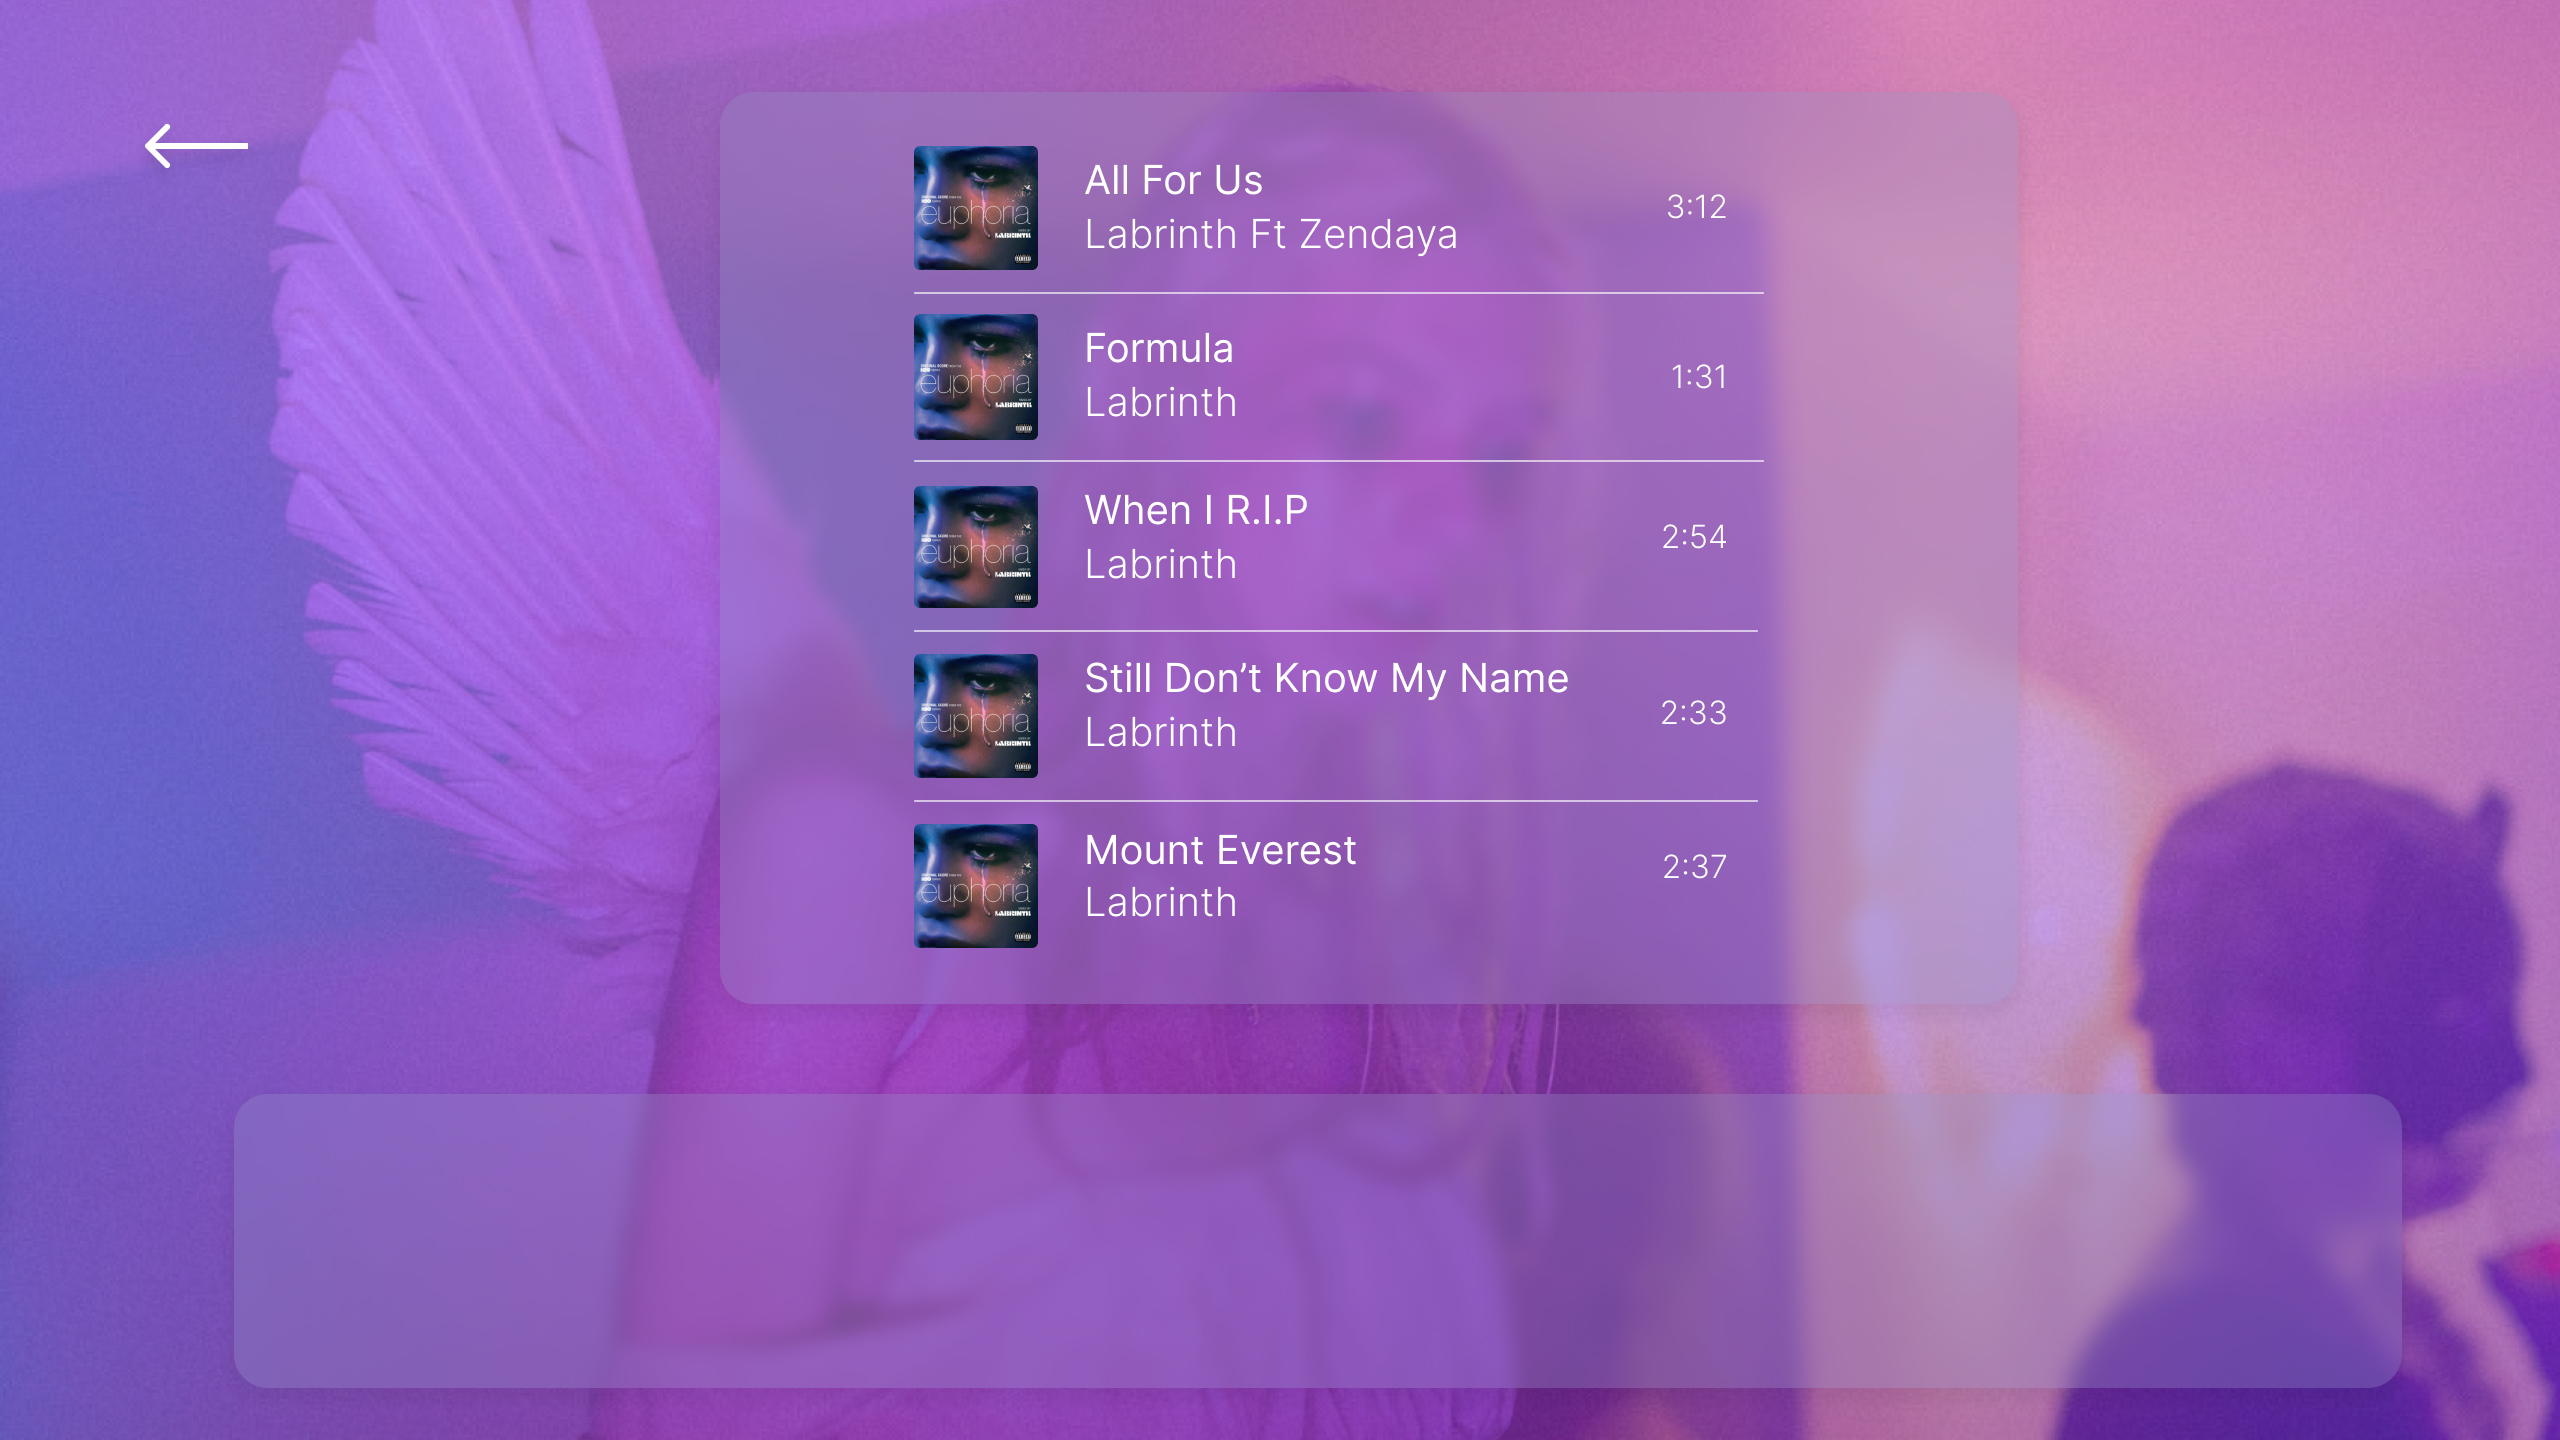
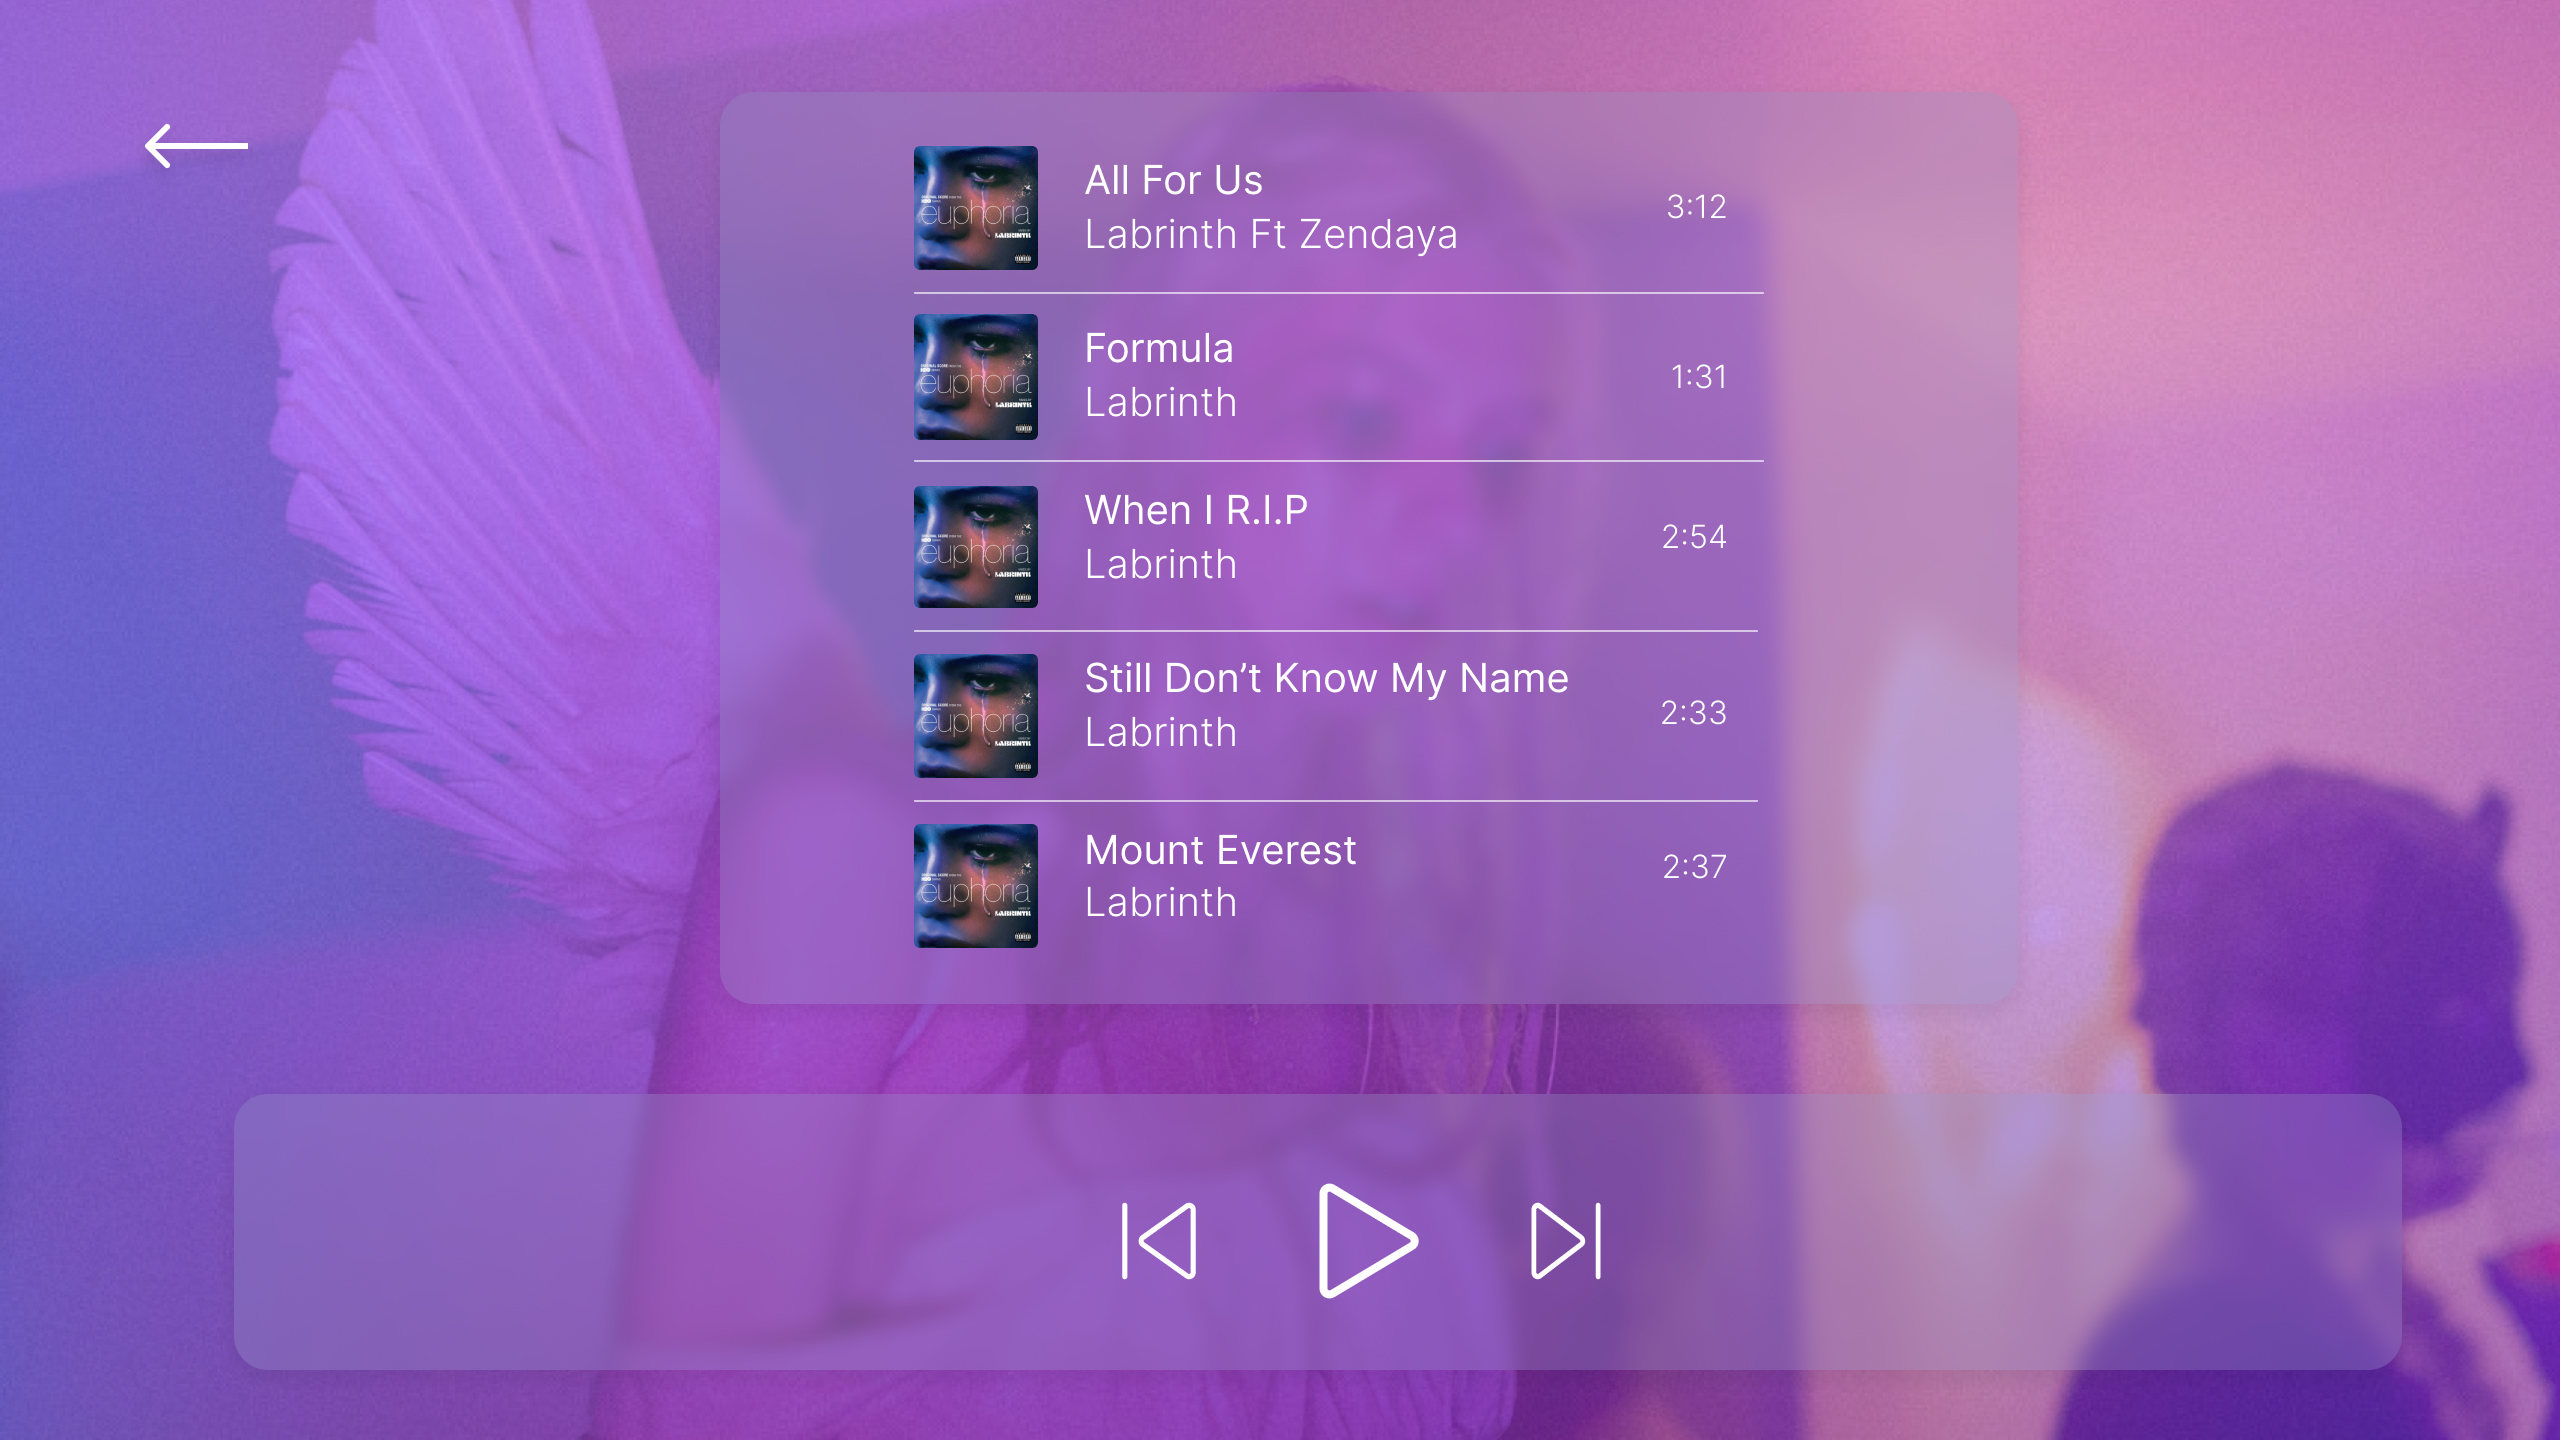
imagenes al reproducir

diff --git a/sketch.js b/sketch.js
@@ -74,7 +74,7 @@ function setup() {
   interface = 0;
   createCanvas(1280, 720);
   slider = createSlider(0, 1, 0.5, 0.01);
-  //song = loadSound("music/Im_tired.mp3", loaded)
+  //songInfo = loadSound("music/Im_tired.mp3", loaded)
   playlists = loadImage("images/playlist.jpg");
   playlistSeason1 = loadImage("images/playlist_1.jpg");
   playlistSeason2 = loadImage("images/playlist_2.jpg");
@@ -105,7 +105,7 @@ function setup() {
 
 function draw() {
   background(0);
-  //song.setVolume(slider.value());
+  //songFiles.setVolume(slider.value());
   //pantallaUno();
   switch (interface) {
     case 0:
@@ -116,12 +116,15 @@ function draw() {
       break; //escoger playlist
     case 2:
       image(playlistSeason1, 0, 0, 1280, 720)
-      break; //playlist season 1
+      if (song && songI !== undefined) image(songFiles[songI].imgInfo, 108, 546);
+      break; //playlist season 1,
     case 3:
       image(playlistSeason2, 0, 0, 1280, 720)
+      if (song && songI !== undefined) image(songFiles[songI].imgInfo, 108, 546);
       break; //playlist season 2
     case 4:
       image(playlistFansFavorite, 0, 0, 1280, 720)
+      if (song && songI !== undefined) image(songFiles[songI].imgInfo, 108, 546);
       break; //playlist fans
   }
   text("x:" + mouseX + " y: " + mouseY, mouseX, mouseY);
@@ -178,7 +181,7 @@ function mousePressed() {
         song.play();
       }
     }
-    if (dist(mouseX, mouseY, 575,191) < 10) {
+    if (dist(mouseX, mouseY, 575, 191) < 10) {
       console.log("si");
       if (song) song.stop();
       if (interface === 2) {
@@ -188,7 +191,7 @@ function mousePressed() {
       }
     }
     //When i r.p.i canción
-    if (dist(mouseX, mouseY, 483,276) < 10) {
+    if (dist(mouseX, mouseY, 483, 276) < 10) {
       console.log("si");
       if (song) song.stop();
       if (interface === 2) {
@@ -197,7 +200,7 @@ function mousePressed() {
         song.play();
       }
     }
-    if (dist(mouseX, mouseY, 579,274) < 10) {
+    if (dist(mouseX, mouseY, 579, 274) < 10) {
       console.log("si");
       if (song) song.stop();
       if (interface === 2) {
@@ -207,7 +210,7 @@ function mousePressed() {
       }
     }
     //still dont know my name canción
-    if (dist(mouseX, mouseY, 484,359) < 10) {
+    if (dist(mouseX, mouseY, 484, 359) < 10) {
       console.log("si");
       if (song) song.stop();
       if (interface === 2) {
@@ -216,7 +219,7 @@ function mousePressed() {
         song.play();
       }
     }
-    if (dist(mouseX, mouseY, 585,356) < 10) {
+    if (dist(mouseX, mouseY, 585, 356) < 10) {
       console.log("si");
       if (song) song.stop();
       if (interface === 2) {
@@ -226,7 +229,7 @@ function mousePressed() {
       }
     }
     //mount everest canción
-    if (dist(mouseX, mouseY, 484,443) < 10) {
+    if (dist(mouseX, mouseY, 484, 443) < 10) {
       console.log("si");
       if (song) song.stop();
       if (interface === 2) {
@@ -235,7 +238,7 @@ function mousePressed() {
         song.play();
       }
     }
-    if (dist(mouseX, mouseY, 579,441) < 10) {
+    if (dist(mouseX, mouseY, 579, 441) < 10) {
       console.log("si");
       if (song) song.stop();
       if (interface === 2) {
@@ -257,7 +260,7 @@ function mousePressed() {
         song.play();
       }
     }
-    if (dist(mouseX, mouseY, 548,95) < 10) {
+    if (dist(mouseX, mouseY, 548, 95) < 10) {
       console.log("si");
       if (song) song.stop();
       if (interface === 3) {
@@ -265,9 +268,9 @@ function mousePressed() {
         songI = 0;
         song.play();
       }
-    } 
+    }
     ///elliot song
-    if (dist(mouseX, mouseY, 448,176) < 10) {
+    if (dist(mouseX, mouseY, 448, 176) < 10) {
       console.log("si");
       if (song) song.stop();
       if (interface === 3) {
@@ -275,8 +278,8 @@ function mousePressed() {
         songI = 1;
         song.play();
       }
-    } 
-    if (dist(mouseX, mouseY, 545,184) < 10) {
+    }
+    if (dist(mouseX, mouseY, 545, 184) < 10) {
       console.log("si");
       if (song) song.stop();
       if (interface === 3) {
@@ -286,7 +289,7 @@ function mousePressed() {
       }
     }
     ///pick me up
-    if (dist(mouseX, mouseY, 445,265) < 10) {
+    if (dist(mouseX, mouseY, 445, 265) < 10) {
       console.log("si");
       if (song) song.stop();
       if (interface === 3) {
@@ -295,7 +298,7 @@ function mousePressed() {
         song.play();
       }
     }
-    if (dist(mouseX, mouseY, 548,266) < 10) {
+    if (dist(mouseX, mouseY, 548, 266) < 10) {
       console.log("si");
       if (song) song.stop();
       if (interface === 3) {
@@ -305,7 +308,7 @@ function mousePressed() {
       }
     }
     ///lo vas a olvidar
-    if (dist(mouseX, mouseY, 444,341) < 10) {
+    if (dist(mouseX, mouseY, 444, 341) < 10) {
       console.log("si");
       if (song) song.stop();
       if (interface === 3) {
@@ -314,7 +317,7 @@ function mousePressed() {
         song.play();
       }
     }
-    if (dist(mouseX, mouseY, 559,353) < 10) {
+    if (dist(mouseX, mouseY, 559, 353) < 10) {
       console.log("si");
       if (song) song.stop();
       if (interface === 3) {
@@ -324,7 +327,7 @@ function mousePressed() {
       }
     }
     ///watercolor eyes
-    if (dist(mouseX, mouseY, 444,429) < 10) {
+    if (dist(mouseX, mouseY, 444, 429) < 10) {
       console.log("si");
       if (song) song.stop();
       if (interface === 3) {
@@ -333,7 +336,7 @@ function mousePressed() {
         song.play();
       }
     }
-    if (dist(mouseX, mouseY, 550,535) < 10) {
+    if (dist(mouseX, mouseY, 550, 535) < 10) {
       console.log("si");
       if (song) song.stop();
       if (interface === 3) {
@@ -342,10 +345,10 @@ function mousePressed() {
         song.play();
       }
     }
-  } 
+  }
   ////playlist fans
   if (interface === 4) {
-    if (dist(mouseX, mouseY, 457,134) < 10) {
+    if (dist(mouseX, mouseY, 457, 134) < 10) {
       console.log("si");
       if (song) song.stop();
       if (interface === 4) {
@@ -354,7 +357,7 @@ function mousePressed() {
         song.play();
       }
     }
-    if (dist(mouseX, mouseY, 543,132) < 10) {
+    if (dist(mouseX, mouseY, 543, 132) < 10) {
       console.log("si");
       if (song) song.stop();
       if (interface === 4) {
@@ -364,7 +367,7 @@ function mousePressed() {
       }
     }
     //stand by me
-    if (dist(mouseX, mouseY, 459,222) < 10) {
+    if (dist(mouseX, mouseY, 459, 222) < 10) {
       console.log("si");
       if (song) song.stop();
       if (interface === 4) {
@@ -373,7 +376,7 @@ function mousePressed() {
         song.play();
       }
     }
-    if (dist(mouseX, mouseY, 553,222) < 10) {
+    if (dist(mouseX, mouseY, 553, 222) < 10) {
       console.log("si");
       if (song) song.stop();
       if (interface === 4) {
@@ -383,7 +386,7 @@ function mousePressed() {
       }
     }
     ///yeh i fucking did it
-    if (dist(mouseX, mouseY, 458,307) < 10) {
+    if (dist(mouseX, mouseY, 458, 307) < 10) {
       console.log("si");
       if (song) song.stop();
       if (interface === 4) {
@@ -392,7 +395,7 @@ function mousePressed() {
         song.play();
       }
     }
-    if (dist(mouseX, mouseY, 538,305) < 10) {
+    if (dist(mouseX, mouseY, 538, 305) < 10) {
       console.log("si");
       if (song) song.stop();
       if (interface === 4) {
@@ -402,7 +405,7 @@ function mousePressed() {
       }
     }
     ///all for us
-    if (dist(mouseX, mouseY, 454,392) < 10) {
+    if (dist(mouseX, mouseY, 454, 392) < 10) {
       console.log("si");
       if (song) song.stop();
       if (interface === 4) {
@@ -411,7 +414,7 @@ function mousePressed() {
         song.play();
       }
     }
-    if (dist(mouseX, mouseY, 550,397) < 10) {
+    if (dist(mouseX, mouseY, 550, 397) < 10) {
       console.log("si");
       if (song) song.stop();
       if (interface === 4) {
